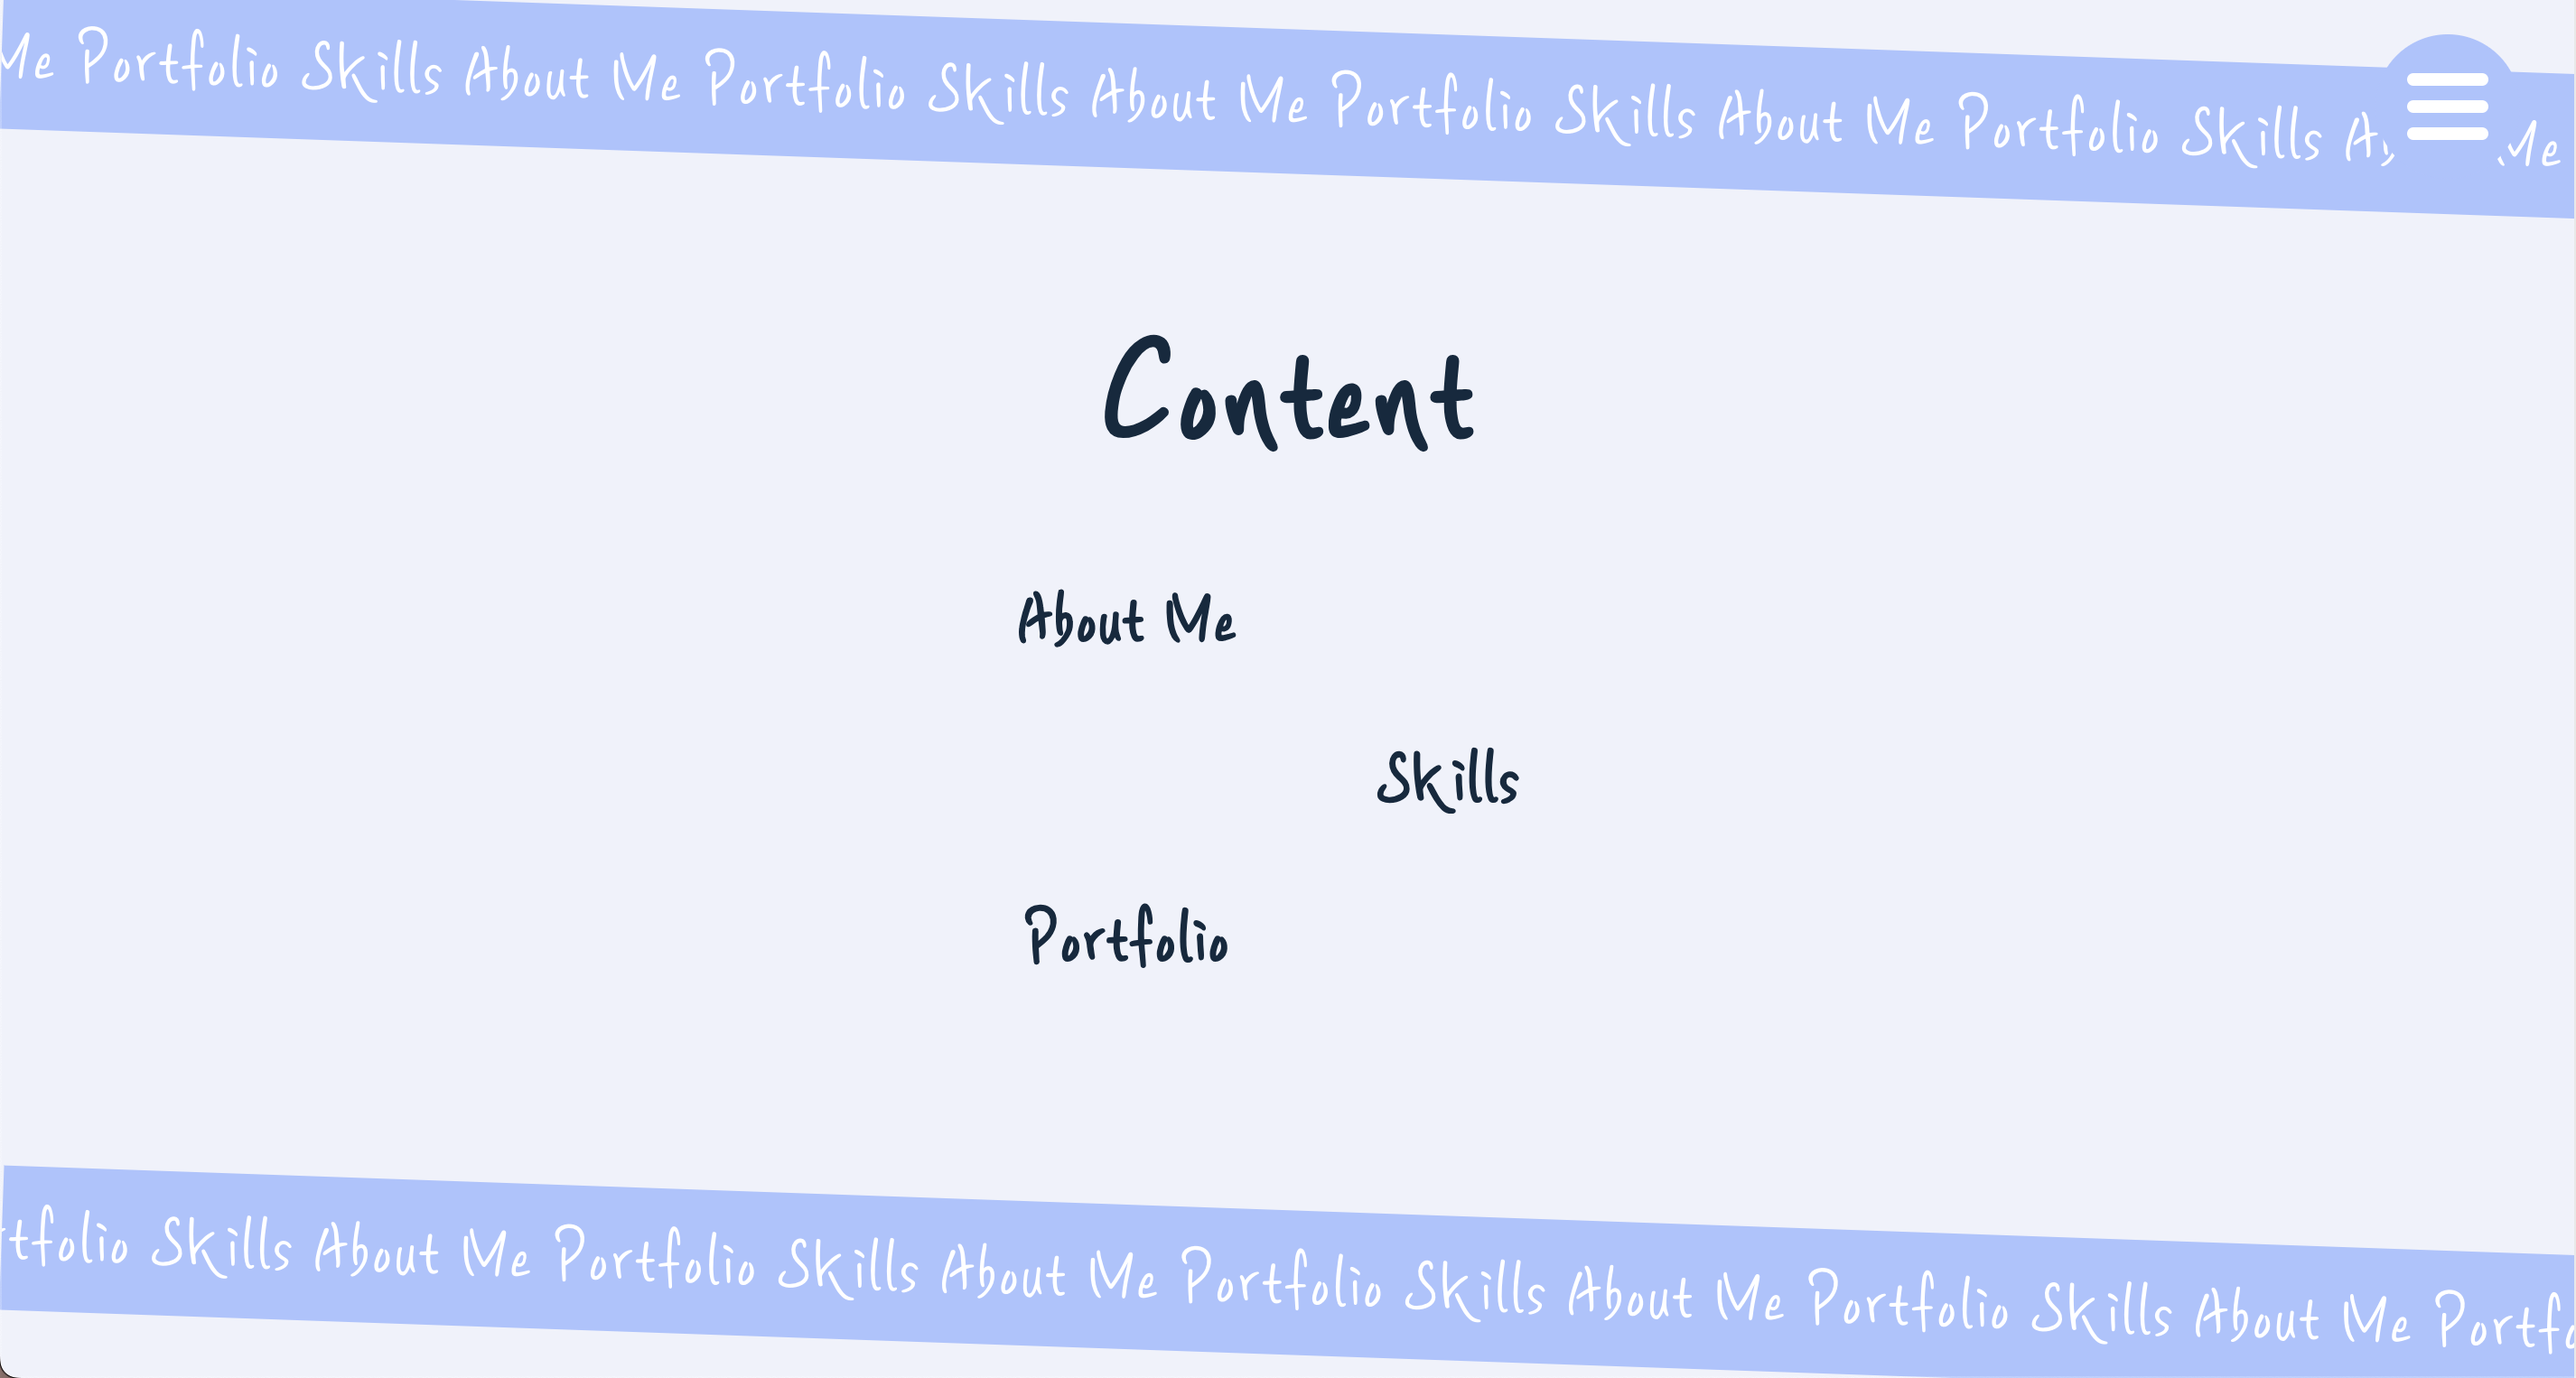
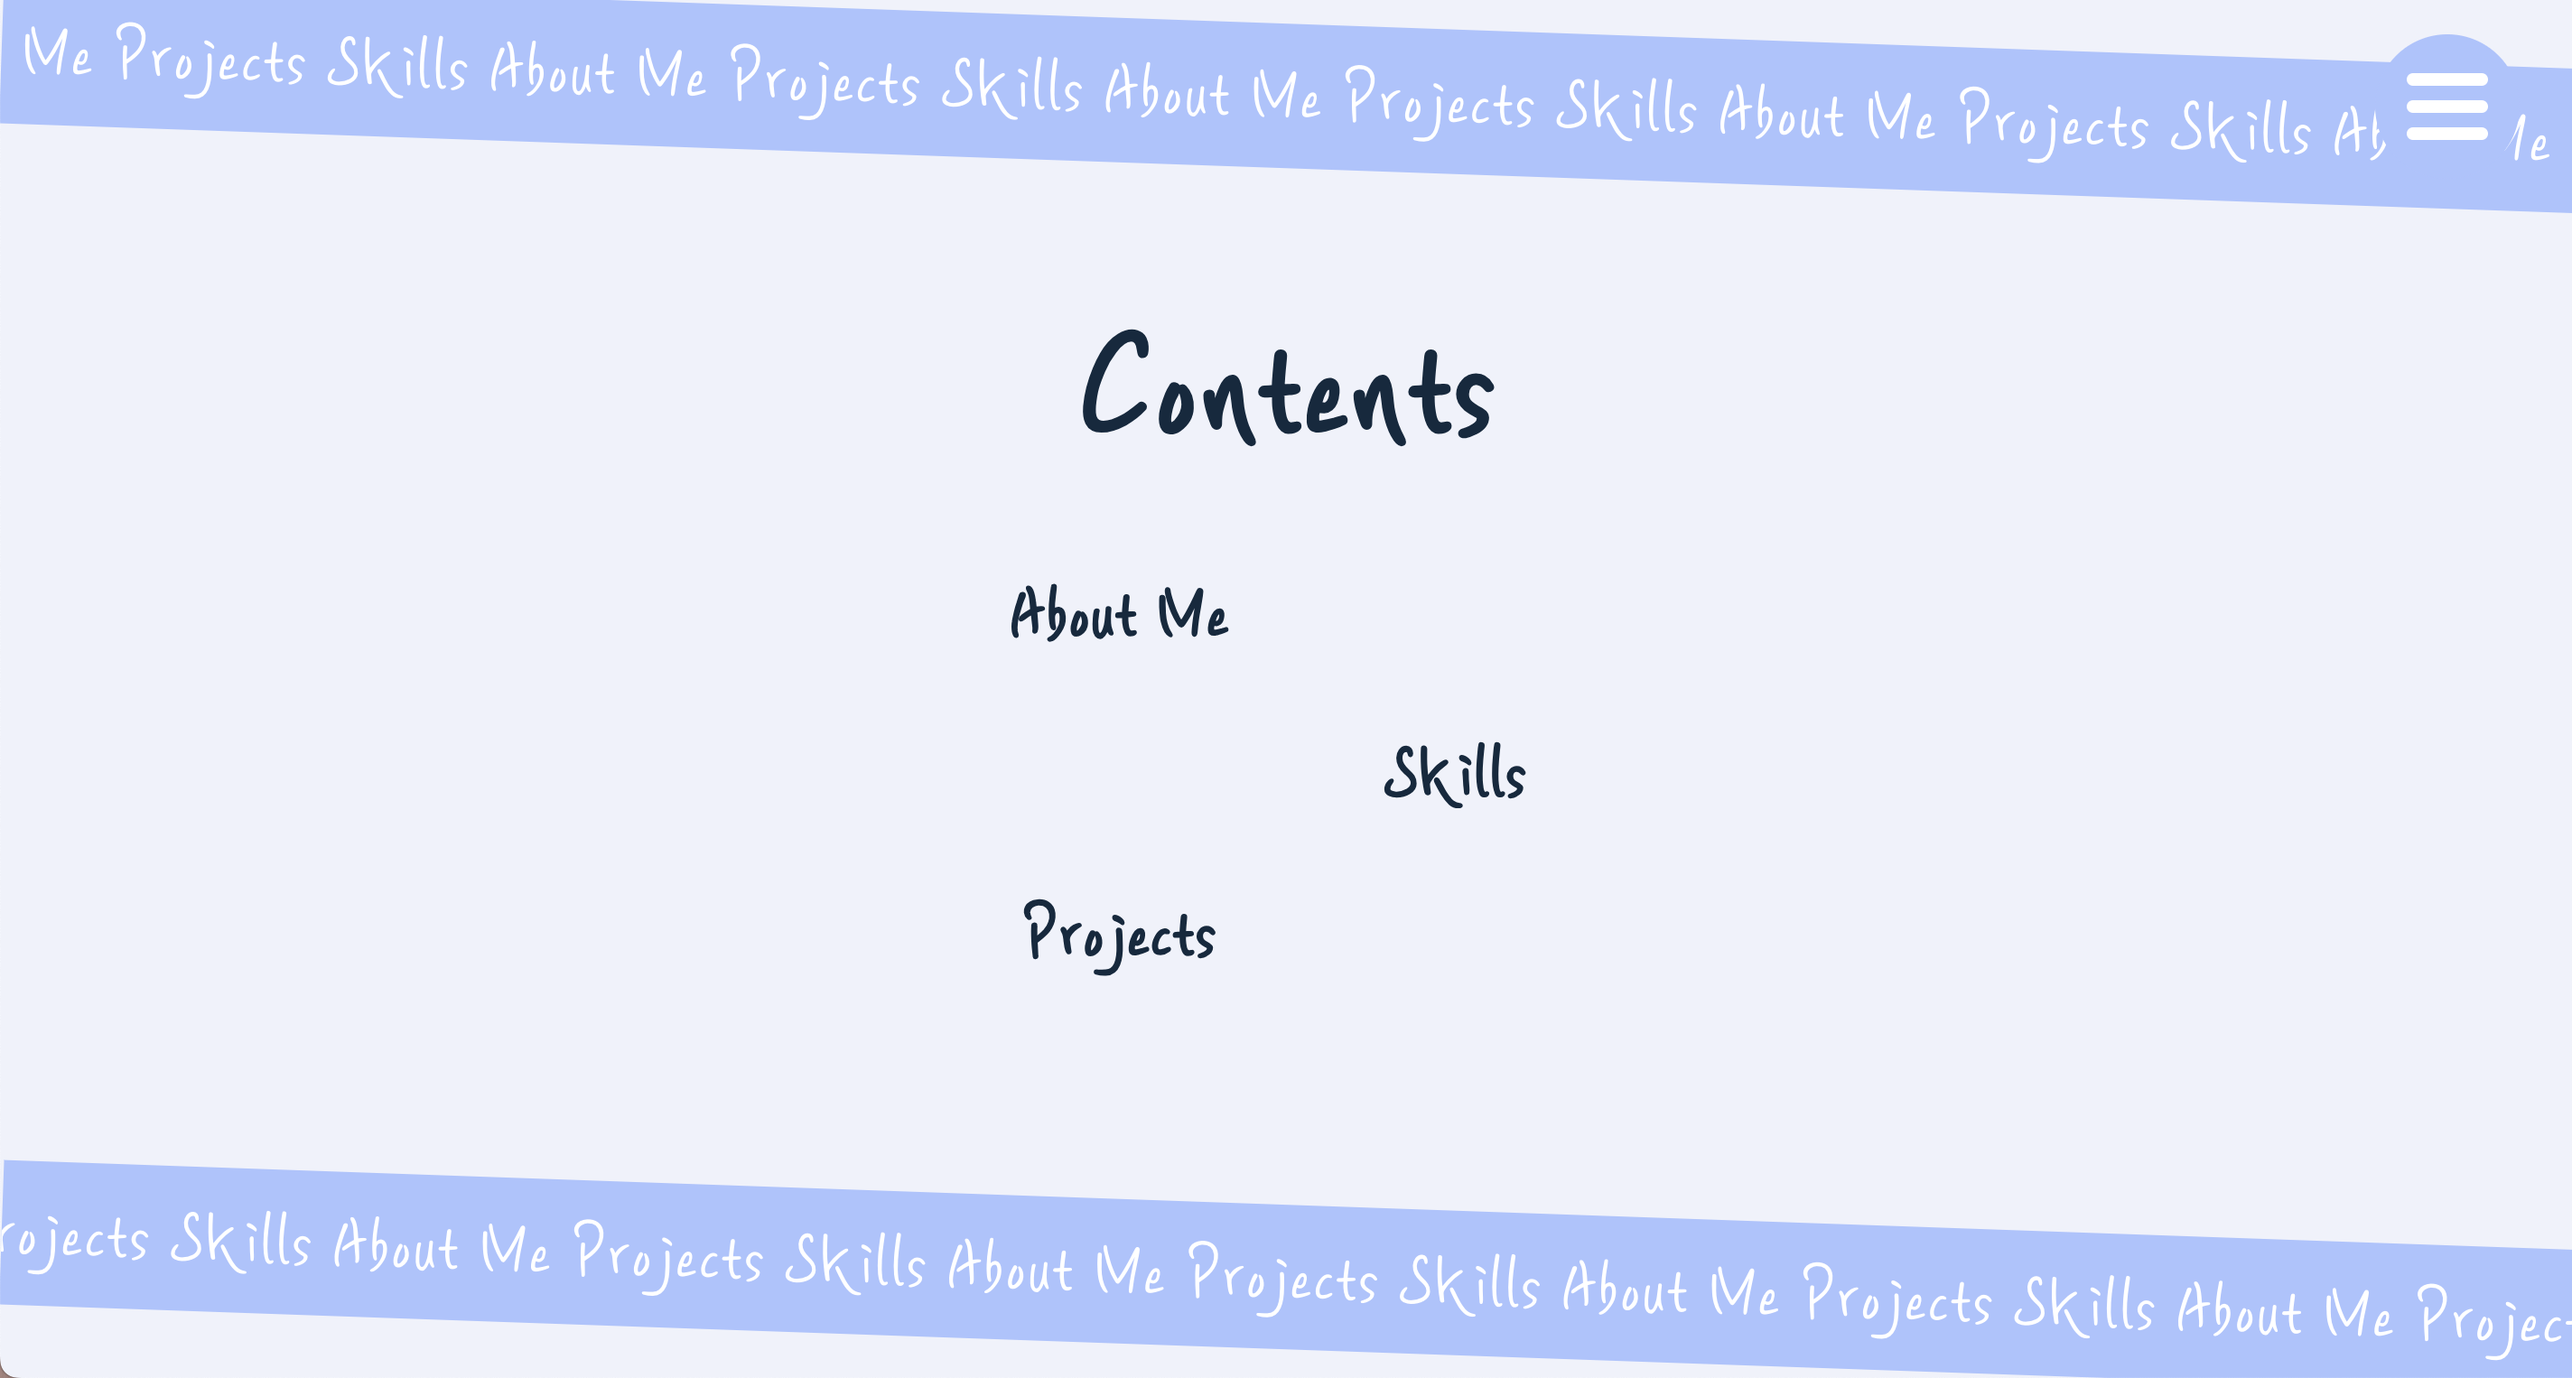
Lgg's Portfolio 최종 배포

diff --git a/src/section/home/HomeScroll.js b/src/section/home/HomeScroll.js
@@ -42,10 +42,10 @@ export default function HomeScroll() {
           <div className={styles.areaBar}>
             <Animator animation={batch(MoveIn(-1000, 0), MoveOut(-1500, 0))}>
               <div className={styles.areaBar_text}>
-                About Me Portfolio Skills About Me Portfolio Skills About Me
-                Portfolio Skills About Me Portfolio Skills About Me Portfolio
-                Skills About Me Portfolio Skills About Me Portfolio Skills About
-                Me Portfolio Skills
+                About Me Projects Skills About Me Projects Skills About Me
+                Projects Skills About Me Projects Skills About Me Projects
+                Skills About Me Projects Skills About Me Projects Skills About
+                Me Projects Skills
               </div>
             </Animator>
           </div>
@@ -63,7 +63,7 @@ export default function HomeScroll() {
             animation={(StickyIn(), FadeIn(), ZoomIn())}
             className={styles.contentTitle}
           >
-            Content
+            Contents
           </Animator>
           <Animator
             animation={MoveOut(-1000, 0)}
@@ -78,7 +78,7 @@ export default function HomeScroll() {
             animation={MoveOut(-1000, 0)}
             className={styles.contentText}
           >
-            Portfolio
+            Projects
           </Animator>
         </h2>
       </ScrollPage>
@@ -86,10 +86,10 @@ export default function HomeScroll() {
         <div className={styles.areaBar}>
           <Animator animation={batch(MoveIn(-1000, 0), MoveOut(1500, 0))}>
             <div className={styles.areaBar_text}>
-              About Me Portfolio Skills About Me Portfolio Skills About Me
-              Portfolio Skills About Me Portfolio Skills About Me Portfolio
-              Skills About Me Portfolio Skills About Me Portfolio Skills About
-              Me Portfolio Skills
+              About Me Projects Skills About Me Projects Skills About Me
+              Projects Skills About Me Projects Skills About Me Projects Skills
+              About Me Projects Skills About Me Projects Skills About Me
+              Projects Skills
             </div>
           </Animator>
         </div>

diff --git a/src/section/home/Home.module.css b/src/section/home/Home.module.css
@@ -85,7 +85,7 @@
 .navText a {
   display: block;
   text-decoration: none;
-  color: #102a3f;
+  color: white;
   font-size: 30px;
   font-weight: 700;
   margin-bottom: 20px;
@@ -95,25 +95,25 @@
   font-size: 34px;
   transition: all 0.5s;
   font-weight: 800;
-  color: white;
+  color: #102a3f;
 }
 .navText .navIntro:hover {
   font-size: 34px;
   transition: all 0.5s;
   font-weight: 800;
-  color: white;
+  color: #102a3f;
 }
 .navText .navStack:hover {
   font-size: 34px;
   transition: all 0.5s;
   font-weight: 800;
-  color: white;
+  color: #102a3f;
 }
 .navText .navPort:hover {
   font-size: 34px;
   transition: all 0.5s;
   font-weight: 800;
-  color: white;
+  color: #102a3f;
 }
 
 .line1 {

diff --git a/src/section/stack/Stack.js b/src/section/stack/Stack.js
@@ -24,12 +24,12 @@ export default function Stack() {
         <div style={{ display: "flex", alignItems: "center" }}>
           <span className={styles.skillsHashTag}>#</span>
           <a className={styles.skillsTitle} href="#Skill">
-            Skill
+            Skills
           </a>
         </div>
         {visibleSkillBar ? (
           <p className={styles.skillsSubTItle}>
-            Percentage of My Skill Proficiency
+            Percentage of My Skills Proficiency
           </p>
         ) : (
           <p className={styles.skillsSubTItle}>

diff --git a/src/section/home/Home.js b/src/section/home/Home.js
@@ -24,7 +24,7 @@ export default function Home() {
                   Skill
                 </a>
                 <a className={styles.navPort} href="#Project">
-                  Project
+                  Projects
                 </a>
               </div>
             ) : null}
